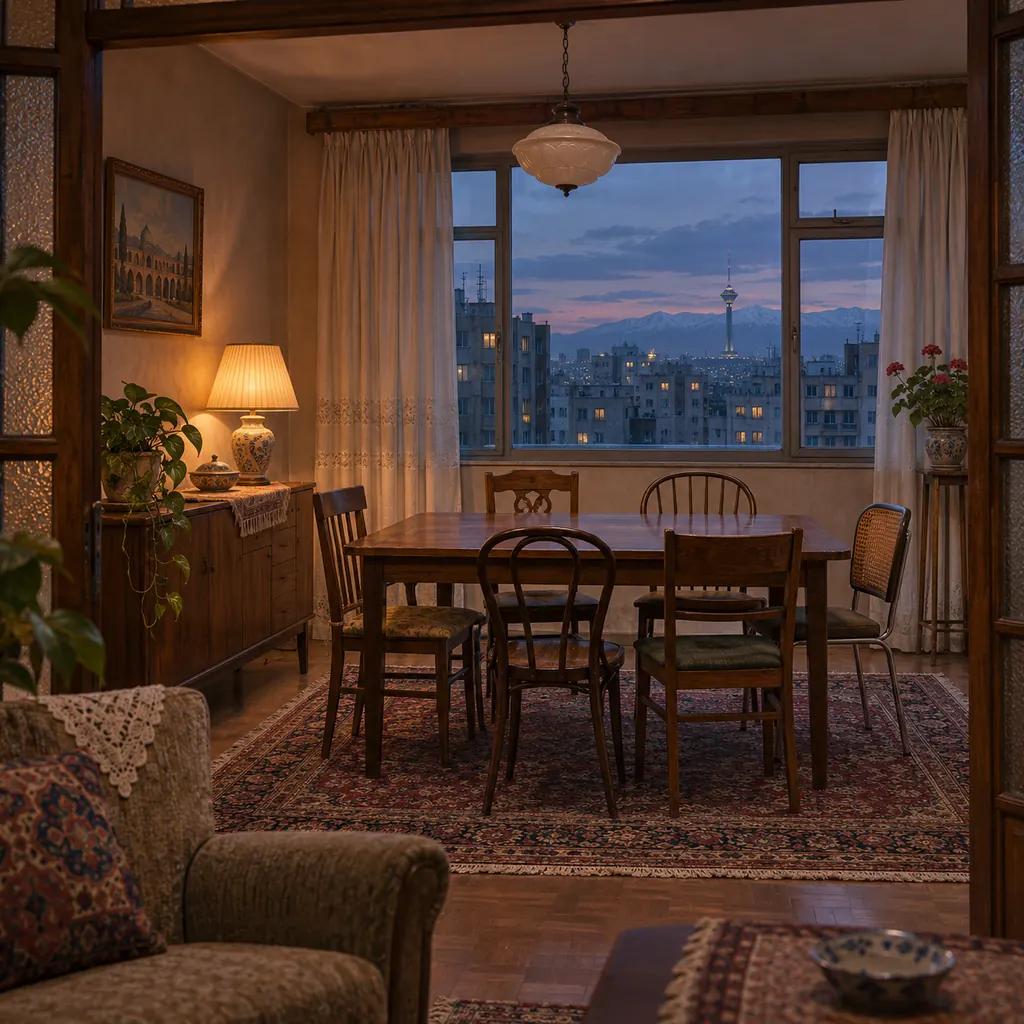
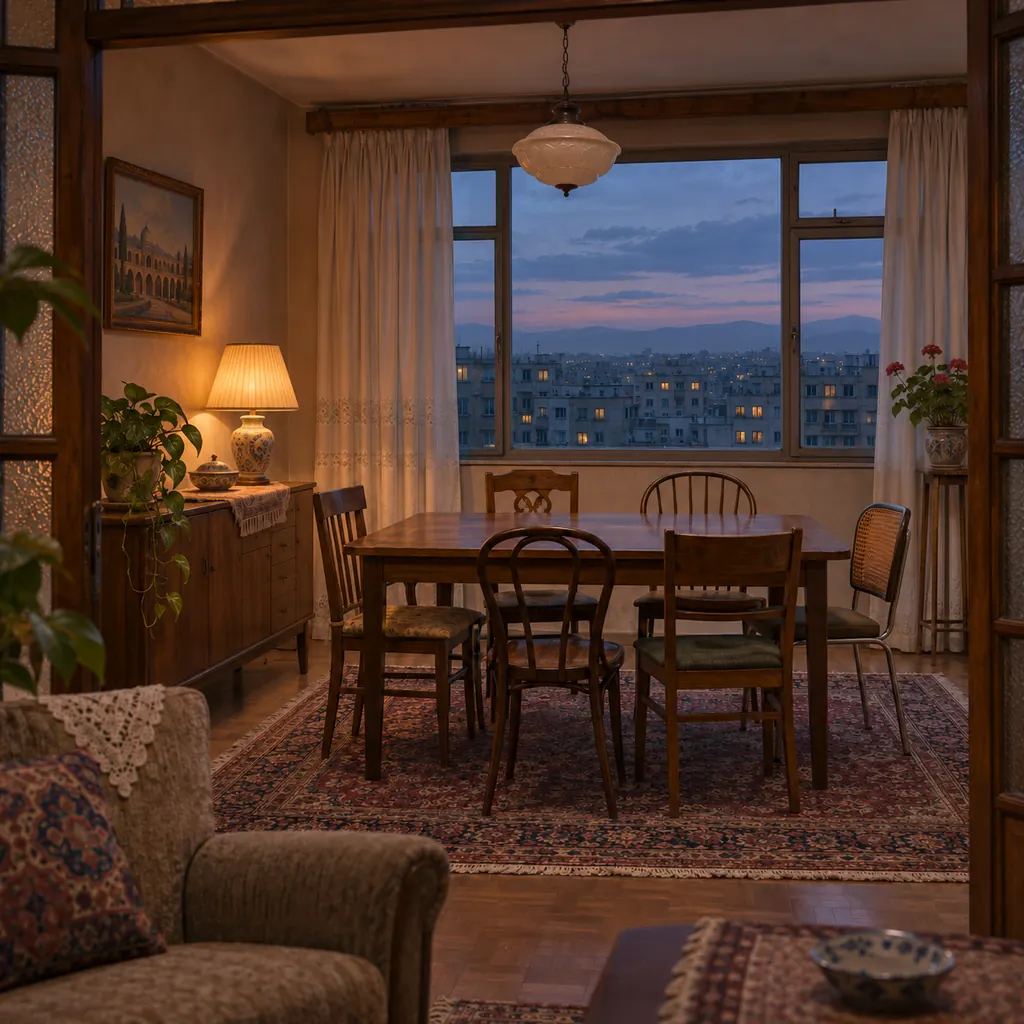
Document verified portrait changes, enforce visual checks and refine tower scene proofs

diff --git a/server/tests/test_case_art_contract.py b/server/tests/test_case_art_contract.py
@@ -66,10 +66,9 @@ class CaseArtContract(unittest.TestCase):
         self.assertEqual(set(reviewed), expected)
         self.assertEqual(len(reviewed),len(self.review))
 
-    def test_all_casts_and_global_culprit_album(self):
+    def test_distinct_casts_preserve_gender(self):
         blocked={frozenset(p) for p in read(REVIEW/'editorial-neighbours.json')}
         blocked.update(frozenset((p['a'],p['b'])) for p in self.review if p['decision']=='avoid_same_cast')
-        album={}
         for c in cases():
             used=[]
             for s in c['suspects']:
@@ -79,10 +78,22 @@ class CaseArtContract(unittest.TestCase):
                 self.assertNotIn(key,used,c['id'])
                 self.assertFalse(any(frozenset((key,other)) in blocked for other in used), (c['id'],key,used))
                 used.append(key)
-                if s['id']==c['solution']['culprit']:
-                    self.assertNotIn(key,album,(key,c['id'],album.get(key)))
-                    album[key]=c['id']
-            self.assertIn(c['id'],album.values())
+
+    def test_culprit_album_is_unique_without_exceptions(self):
+        album={}
+        for c in cases():
+            suspect=next(s for s in c['suspects'] if s['id']==c['solution']['culprit'])
+            key=suspect['avatar']['portrait']
+            self.assertIn(key,self.reg)
+            self.assertNotIn(key,album,(key,c['id'],album.get(key)))
+            album[key]=c['id']
+
+    def test_no_unreleased_portrait_leaks_to_an_old_case(self):
+        releases=read(ROOT/'docs/portrait-release.json')['portraits']
+        staged={k for k,v in releases.items() if v.get('first_build') is None}
+        for c in cases():
+            for s in c['suspects']:
+                self.assertNotIn(s['avatar']['portrait'],staged,(c['id'],s['id']))
 
     def test_all_ages_and_uniforms(self):
         errors=[]

diff --git a/docs/reviews/portrait-scene-quality.md b/docs/reviews/portrait-scene-quality.md
@@ -1,20 +1,44 @@
-# Portrait and scene quality — execution checkpoint
+# بررسی هنر پرونده — ۱۱ نوامبر ۲۰۲۶
+**شاخه برای بازبینی است؛ آمادهٔ ادغام یا انتشار نیست.** مبنا: `a920b716e14185d679557fdc4f7ececfaf30ab7f` روی main. بررسی ۷ نوامبر بر مبنای قدیمیتر بود. شاخهٔ جدا با تاریخچهٔ قبلی حفظ و با main همگام شد. هیچ APK ساخته نشد.
+   
+## سه خروجی متفاوت
+- **آنچه روی شاخه است:** در ۳۹ پرونده، ۱۰۵ مقدار موجود `avatar.portrait` عوض شده است. جنسیت، سایر فیلدهای آواتار، داستان، مدارک، جوابها و برنامهٔ انتشار هیچ تغییری ندارند. c038/s1 (معاون آموزشی، ۵۲ ساله) اکنون کتِ `m_mid_lecturer` دارد. پرترهٔ نسخهشناس w005/s3 روی main هم `m_mid_researcher` است؛ آن فایل در build 83 اضافه شده و استقرار سرور آن را به APK قدیمی نمیرساند.
+- **[اصلاحات پیشنهادیِ اعمالنشده](portrait-quality/remaining-portraits.patch):** آخرین پیشنهاد، ۹۰ مقدار در ۴۸ فایل نسبت به وضعیت همین شاخه است. علاوه بر دستهٔ متوقفشده، اصلاحات حاصل از بازبینیِ مجدد لباسها را هم دارد. مثال: w001/s2، متخصص قلب، در شاخه هنوز لباس سرباز دارد؛ در پیشنهاد، روپوش پزشکی `f_mid_doctor`. این patch فقط خطوط portrait دارد. روی کپی جداگانه اعمال و هر ۴۸ فایل از نظر برابری تمام فیلدهای دیگر و هش خروجی بررسی شد: [هشها](portrait-quality/patch-verification.json). هنگام تغییر main باید دوباره اعتبارسنجی شود.
+- **[مطالعه برای کلاینت سازگار](portrait-quality/client-rollout-study.csv):** برای هر ۳۵۸ مظنون در ۶۸ پرونده، انتخابی در مجموعهٔ ۱۳۷ تصویر که اختلاف سن حداکثر ۷، لباس مجاز، جنسیت اصلی، جدایی جفتهای نزدیک در پرونده و یکتایی مجرم را رعایت کند. پرترههای مجرمان ۹ پروندهٔ دیگر رزرو شدهاند. این مطالعه JSON اجرایی نیست؛ ۳۷ انتخابِ آن برای تاریخ پرونده و کلاینت قدیمی مجاز نیست. نصب APK بعدی تاریخ انتشار پروندههای قبلی را عوض نمیکند. فعالسازی گذشتهنگر نیازمند سیاست سازگاری جداگانه است؛ پیشنهاد فنی برای بررسی، نگاشت نسخهدار در کلاینت با حفظ portrait فعلی برای کلاینت قدیمی است. این رفتار پیادهسازی نشده است.
 
-Base main: 1db49849ade2a9de7510d39069dc0ffe94be585b. Branch: portrait-scene-quality.
+[جدول هر مظنون](portrait-quality/before-after.csv): ستون before از main، branch_portrait مقدار واقعی شاخه، after پیشنهادِ patch با داراییهای قابلاستفاده، و ستونهای issues ایرادهای هر وضعیتاند. ستون remaining شامل کنترل دستهٔ سنی قدیمی هم هست. پروندههای c063–c070 و w007 فقط بررسی شدند و در نگاشت اجرایی دست نخوردند. all-slots، mapping-draft و before-after-draft یادداشتهای تاریخی ۷ نوامبر هستند؛ آنها را روی main فعلی اعمال نکنید.
 
-Scope: annotate all 127 portraits (124 main + 3 verified recovery assets), enforce age/wardrobe/visual-neighbour rules, review c001-c062 and w001-w006; w007 also included in global uniqueness checks. No main/release push, no APK. Content changes restricted to avatar fields; scene_variant implementation requires owner approval first.
+| سنجه در ۶۸ پرونده / ۳۵۸ جایگاه | مبنا | شاخه | پس از patch پیشنهادی |
+|---|---:|---:|---:|
+| اختلاف سن بیش از ۷ | ۱۰۷ | ۳۴ | ۱۰ |
+| لباس یا ابزار شغلی بدون تأیید نقش | ۸۰ | ۵۲ | ۷ |
+| دستکم یکی از این دو ایراد | ۱۶۱ | ۷۸ | ۱۶ |
 
-## Scene-variant design — awaiting owner approval
+این شمارش از جدول نقشها و تخمینهای رجیستری است، نه سن واقعی یک مدل انسانی. دو ردیف اول همپوشانی دارند. در ۹ پروندهٔ فقطخواندنی، ۴ ایراد سن و ۱۲ ایراد لباس ثبت شد. در کل ۷۷ پرونده، ۴۰۶ مظنون بررسی شدند.
 
-- Keep existing scene enum unchanged. Add optional scene_variant, restricted to lowercase ASCII letters/digits/underscores, length 1..48, and a checked-in allowed variant registry keyed by base scene. Reject path separators/traversal and unknown pairs.
-- Server public case payload and summary expose scene_variant additively. No changes to rewards, solutions or schedules.
-- Flutter model defaults absent variant to null; scene widget receives both fields. Try assets/scenes/<scene>_<variant>.webp; on asset-load failure use the original assets/scenes/<scene>.webp, preserving the current base-scene animation and procedural last fallback. All call sites must pass variant.
-- Tests: legacy case JSON, valid/invalid variants, unknown pair rejection, public API propagation, successful variant display, missing-asset fallback, same base weather behavior.
-- Illustrations are atmospheric establishing views, never forensic evidence or culprit clues. Proposed first pairs: tower/clock, tower/apartment, library/binding, library/silver, lab/plant_growth, lab/educational_workshop, airport/lounge, airport/medical_warehouse.
-- Do not implement this design or add variant fields until Amin approves. Variant counts and scene briefs still pending the full location inventory.
-
-## Progress and verification
-
-- Ran requested git ls-remote --heads origin 'portrait-scene*': failed because this workspace is not an authenticated git checkout. Checked branch existence using authenticated GitHub branch API instead; no matching branch existed. Created portrait-scene-quality successfully from the base SHA.
-- Read main remotely; SHA unchanged from prior audit. Existing asset snapshot previously checked against remote blob SHAs. Three recovery images checked by Git blob SHA and opened visually this turn.
-- No tests claimed green at this checkpoint. No implementation complete yet.
+## رجیستری و شباهت
+[رجیستری](../art-registry.json) شامل ۱۲۷ تصویرِ مرجع و ۱۰ تصویر تازه است. سن تخمین هنری است؛ مبنای اولیهٔ بسیاری از سنها portrait-ages قبلی بود، نه برآورد کور مستقل. رنگ پوست، رنگِ دیدهشده در نقاشی زیر نور کهربایی است. جایی که مو پوشیده است نمیتوان مدل زیر پوشش را تعیین کرد. برچسب یونیفرم از **چیزی که دیده میشود** میآید: در بازبینی مجدد، عینک پزشک، متر خیاط، تی نظافت، پیشبند آردی، کلاه دوچرخه و نشان سینه اصلاح شد. مجوز لباس برای هر جایگاه به متن دقیق نقش گره خورده؛ تغییر نقش مجوز را بیاعتبار میکند. کراپ کوچک f_mid_business و تیرگی دور چشم m_young_boxer نیازمند نظر هنریاند؛ مطالعهٔ کلاینت از این تصاویر استفاده نکرد.
+   
+برای تمام زوجهای ۱۳۷ تصویر، برش نسبی مرکز صورت (x: ۲۰–۸۲٪، y: ۱۰–۷۳٪) مقایسه شد. pHash طیفی ۶۳ بیتی با فاصلهٔ همینگ حداکثر ۱۰ **یا** شباهت کسینوسی حداقل ۰٫۸۸ در بردار ۵۷۶تایی جهت گرادیان. این روش هویتسنج نیست؛ زاویه و نور میتوانند شباهت کاذب بسازند. تمام ۴۵ زوج ماشینی با ورق تصویری بررسی شدند، شامل [زوج بین دو گروه](portrait-quality/cross-pool.webp). [نتیجه و هش هر تصمیم](portrait-quality/machine-candidates.json)؛ [۲۲ زوج ممنوع برای همبازیشدن، شامل موارد چشمدیدهٔ بیرون آستانه](portrait-quality/editorial-neighbours.json). تست، اثرانگشتها، هش فایلها و تطابق مجموعهٔ تصمیمها با محاسبهٔ زوجها را میسنجد. تغییر فایل تصویر تصمیم قدیمی را باطل میکند. این فرآیند تضمین نمیکند هیچ شباهت ادراکی از چشم نیفتاده است.
+   
+ورقهای ترکیب فعلی: [۱](portrait-quality/branch-casts-1.webp)، [۲](portrait-quality/branch-casts-2.webp)، [۳](portrait-quality/branch-casts-3.webp)، [۴](portrait-quality/branch-casts-4.webp). تصاویر تازه: [شش تصویر اول](portrait-quality/new-portraits.jpg)، [چهار تصویر بعد](portrait-quality/additional-portraits.webp)، [هر چهرهٔ جدید کنار سه همسایهٔ محاسباتی](portrait-quality/new-neighbours.webp). هر ده خروجی WebP با چشم دیده شد؛ هیچ لباس فرم، ابزار یا نوشتهای در آنها لازم نیست. برداشت بازیکن از حالت چهره با تست کاربری سنجیده نشده است.
+   
+## ظرفیت و هزینه
+با محاسبهٔ تطبیق دوبخشی در `python tools/portrait_capacity.py`، پس از رزرو مجرمهای بیرون دامنه، فقط **۵۸ از ۶۸** مجرم با فایل قابلاستفاده در تاریخ پرونده، جنسیت، سن و لباس قابل تخصیص یکتایند. این سقف حتی قبل از محدودیت شباهتِ داخل پرونده است. با شش عکس تازه و حذف *فرضی* قید عرضه، ظرفیت ۶۴ بود؛ با چهار عکس تکمیلی، ۶۸ شد. شناسههای تازه با first_build نامعلوم و تاریخ مسدودکنندهٔ 9999-12-31 ثبت شدهاند؛ این تاریخ وعدهٔ انتشار نیست و فقط پس از تأیید عرضه باید جایگزین شود. هیچ پروندهٔ اجرایی به این ده شناسه اشاره نمیکند.
+   
+**حجم واقعی اضافهشده به داراییهای اپ: ۲۹۸٬۷۰۶ بایت**؛ ۱۰ فایل ۵۱۲×۵۱۲ WebP، هر کدام ۲۴٬۸۴۰ تا ۳۴٬۶۱۸ بایت. سه فایل بازیابیشدهٔ قبلی اکنون در main هستند و دوباره در این اختلاف حساب نشدهاند. عکسهای داخل docs بستهبندی نمیشوند. حجم APK اندازهگیری نشده چون ساخت APK ممنوع بود. [فهرست مسیر، ابعاد، حجم و SHA-256](portrait-quality/new-assets.csv)، [مشخصات تمایز و پرامپتها ۱–۶](portrait-quality/new-portrait-briefs.json)، [۷–۱۰](portrait-quality/additional-briefs.json).
+   
+## صحنهها: تصمیم لازم پیش از کدنویسی
+[موجودی مکان و واریانت پیشنهادی هر پرونده](portrait-quality/scene-inventory.csv) و [شمارش به تفکیک ۲۰ نوع صحنه](portrait-quality/scene-counts.csv). روی main فعلی ۷۷ پرونده نوشته شده است. در ۶۹ پروندهٔ مبنای اولیه ۵۲ کلید واریانت پیشنهاد میشود؛ در ۷۷ پروندهٔ فعلی ۶۰ کلید؛ با ۱۷ ایدهٔ هنوز ننوشته ۷۱ کلید. این تعداد پیشنهاد طراحی است، نه اثبات حداقل بهینه یا تعداد فایل ساختهشده. بعضی پروندهها تصویر پایه را حفظ میکنند. نمونه: تالار نسخههای خطی، کتابخانهٔ خانوادگی و اتاق دریافت اسناد یک محیط واحد نیستند. c061 طبق متن فعلی کتابخانهٔ خانوادگی است؛ شغل صحاف در داستان بهتنهایی دلیل انتخاب کارگاه صحافی نیست.
+   
+طرح پیشنهادی: scene پایه ثابت بماند؛ scene_variant اختیاری با کلید مجاز زیر هر پایه و الگوی ASCII کوچک [a-z0-9_]، طول ۱ تا ۴۸. سرور جفت ناشناخته و مسیر فایل را رد کند، فیلد را به جزئیات و خلاصهٔ عمومی بدهد. Flutter ابتدا scenes/<scene>_<variant>.webp، سپس تصویر پایه و در آخر fallback موجود را نشان دهد؛ آبوهوا و حرکت متعلق به scene پایه بماند. تستها: فایل قدیمی بدون variant، جفت معتبر/نامعتبر، انتشار به مدل، خواندن فایل، fallback و حفظ انیمیشن. **هنوز کد یا JSON صحنه عوض نشده؛ منتظر تأیید مالک.**
+   
+دو اثبات تصویری فقط در docs (مجموع ۲۲۷٬۴۶۴ بایت): [برج ساعت برای c020](portrait-quality/scene-proofs/tower_clock.webp) و [داخل آپارتمان برای c058](portrait-quality/scene-proofs/tower_apartment.webp). این دو صحنه عمداً در APK قرار نگرفتهاند. در بازبینی تصویریِ نسخهٔ دوم، ساعت از سطح میدان خوانا نیست و از پنجرهٔ آپارتمان فقط ساختمانهای مسکونی دیده میشوند. [پرامپتهای صحنه](portrait-quality/scene-proofs/prompts.json). سایر واریانتها تولید نشدهاند.
+   
+## آینده و اعتبارسنجی
+[فرم و گردش کار نویسنده](../art-request-template.md)، [۱۹۸ جایگاه ایدههای ۱ تا ۳۶](portrait-quality/future-slots.csv)؛ در نسخهٔ فعلی ۹۸ جایگاه متعلق به ایدههای نوشتهشده و ۱۰۰ جایگاه مربوط به ۱۷ ایدهٔ ننوشتهاند. مبنای ایدهها blob a6396b588d63ce954564c63f2153429efad989d5 در docs/writing-plan است. برای ایدههای ننوشته تصویر یا تخصیص شخصی تولید نشده است.
+   
+- `python tools/verify_portrait_changes.py --base a920b716e14185d679557fdc4f7ececfaf30ab7f` برای بازتولید کنترل JSON در clone کامل. در این محیط همان کنترل روی ۷۷ فایل اصلی با هش گیـت تأییدشده اجرا شد. پیش از بازگرداندن c031، ۷۷ blob شاخه دوباره از GitHub تطبیق داده شدند؛ c031 برای جلوگیری از تکرار موقت در آلبوم، به blob خود main بازگردانده شد. نتیجهٔ نهایی: ۳۹ فایل، ۱۰۵ رشتهٔ portrait، بدون تغییر فیلد دیگر.
+- `python server/tests/test_case_art_contract.py -v`: شش تست، چهار پاس؛ تست سن/لباس و تست جدایی چهرهها در وضعیت واقعی شاخه رد میشوند. مثال جدایی: c048. تست یکتایی مجرم، رجیستری و هش فایلها، ثبت تصمیم شباهتها و عدم استفاده از عکس منتشرنشده پاس شدند. هیچ استثنایی برای سبز نشان دادن تستها اضافه نشده است.
+- پنج تابع واقعی test_content.py مستقیماً با loader مخزن اجرا شدند: تعداد و زمانبندی ۷۰ شبانه، وجود فایلها، یکتایی مجرم، دستهٔ سنی قدیمی و محدودیت انتشار عکس. هر پنج پاس شدند. این اجرای همهٔ pytest نیست. همهٔ ۱۳۷ WebP با Pillow باز و decode شدند. تست Flutter برای asset manifest، decode و مسیر نمایش تعبیه شده؛ Flutter SDK در محیط محلی موجود نبود. تست روی دستگاه انجام نشده است.
+- بررسی خودکار نوشتن دستهای از JSONهای کامل را به علت احتمال تغییر داستان/مدارک/راهحل رد کرد. آن نوشتن تکرار نشد؛ تغییرات باقیمانده بهصورت patch محدود و قابلآزمایش تحویل شدهاند. برای ادغام، نتیجهٔ CI همین سرشاخه، عرضهٔ سازگار برای تصاویر و ایرادهای باز باید جدا بررسی شوند. وضعیت CI را از لینک دقیق کامیت تحویلشده ببینید؛ نتیجهٔ محلی جای نتیجهٔ GitHub نیست.

diff --git a/docs/art-request-template.md b/docs/art-request-template.md
@@ -30,3 +30,6 @@
 ## محدودیت فعلی
 
 رجیستری نخست برچسبهای تخمینی هنری دارد، نه سنسنجی زیستی. نگاشت پیشنهادی تا بررسی بصری ترکیب هر پرونده نهایی نیست. طراحی scene_variant منتظر تأیید مالک است.
+
+## کنترل عرضه قبل از انتخاب
+در docs/portrait-release.json، تاریخ usable_from را با تاریخ خود پرونده بسنج؛ وجود فایل روی GitHub نشانهٔ نصب آن روی گوشی نیست. first_build نامعلوم یعنی تصویر هنوز در هیچ پروندهای قابلاستفاده نیست. برای لباس شغلی، کلید case/slot، نقش دقیق و تگ مجاز را در docs/art-role-approvals.json ثبت کن. برای تصویر تازه python tools/analyze_portrait_similarity.py را اجرا کن، تمام زوجهای pending را با ورق مقایسه بررسی کن، سپس python server/tests/test_case_art_contract.py -v را اجرا کن. نتیجهٔ قرمز دلیل رفع ایراد است، نه مجوز تغییر آستانه.
